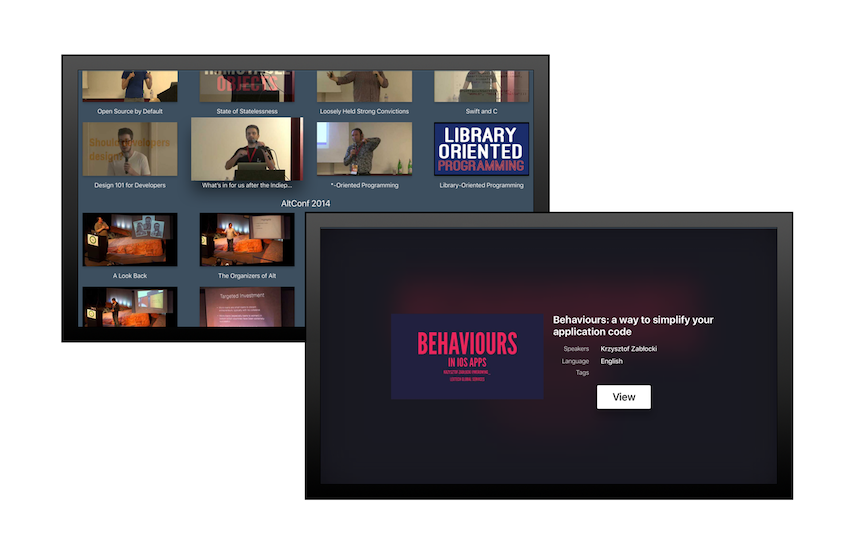
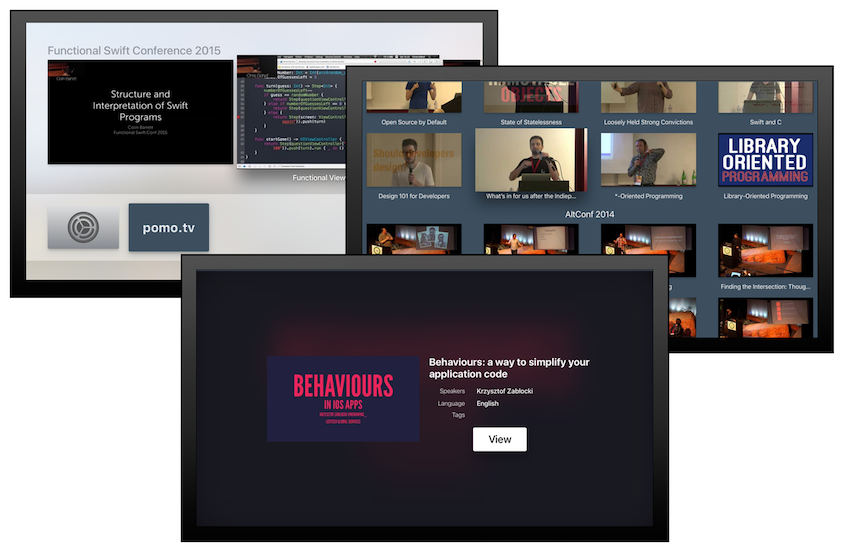
update readme and screenshots

diff --git a/README.md b/README.md
@@ -6,7 +6,7 @@ This Apple TV app allows you to browse and play the videos listed on http://www.
 I hacked this together in a day, so the quality is not great. Use at your own risk.
 
 ## Features & ToDos
-- [ ] list recent videos
+- [x] list recent videos (top shelf extension)
 - [x] list all videos
 - [x] play YouTube videos
 - [x] play Vimeo videos
